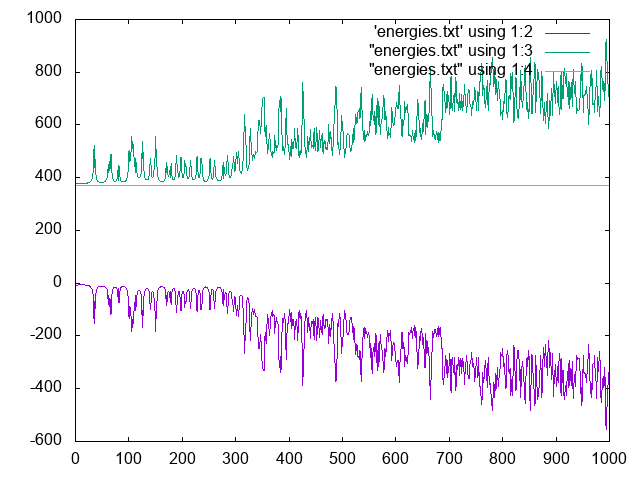
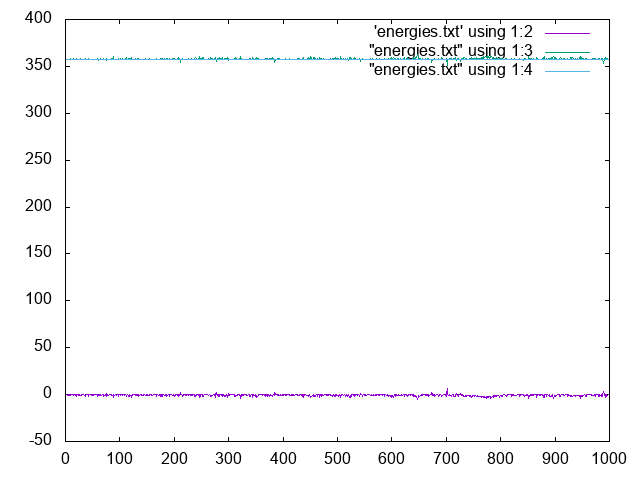
- Fixed Andersen thermostat

diff --git a/thermostats.h b/thermostats.h
@@ -12,18 +12,18 @@ namespace thermostats{
                     double ran_u2 = ran2::get_random();
                     double random_gauss =
                             sqrt(-2 * log(ran_u1)) * sin(2 * constants::PI * ran_u2);
-                    atoms[i]->vel[0] = random_gauss * sqrt(constants::K * 300 / atoms[i]->mass);
+                    atoms[i]->vel[0] = random_gauss * sqrt(constants::K_DALTON * 300 / atoms[i]->mass) * 0.001;
 
                     ran_u2 = ran2::get_random();
                     ran_u1 = ran2::get_random();
                     random_gauss =
                             sqrt(-2 * log(ran_u1)) * sin(2 * constants::PI * ran_u2);
-                    atoms[i]->vel[1] = random_gauss * sqrt(constants::K * 300 / atoms[i]->mass);
+                    atoms[i]->vel[1] = random_gauss * sqrt(constants::K_DALTON * 300 / atoms[i]->mass) * 0.001;
 
                     ran_u2 = ran2::get_random();
                     ran_u1 = ran2::get_random();
                     random_gauss = sqrt(-2 * log(ran_u1)) * sin(2 * constants::PI * ran_u2);
-                    atoms[i]->vel[2] = random_gauss * sqrt(constants::K * 300 / atoms[i]->mass);
+                    atoms[i]->vel[2] = random_gauss * sqrt(constants::K_DALTON * 300 / atoms[i]->mass) * 0.001;
                 }
             }
         }

diff --git a/atom.cpp b/atom.cpp
@@ -31,12 +31,13 @@ Atom** Atom::create_atoms() {
  */
 
 void Atom::initialize(Atom** atoms){
+    FILE *fi = fopen("velocities.txt", "w");
     for(int i = 0; i < base::numOfAtoms; i++) {
         atoms[i] = new Atom();
 
         //atoms[i]->mass = 0.000000000000000000000000001;
         //atoms[i]->mass = 1;
-        atoms[i]->mass = 28; //[dalton]
+        atoms[i]->mass = 28.0134; //[dalton]
         atoms[i]->radius = 0.1;
 
         atoms[i]->pos[0] = ran2::get_random() * base::boxDim;
@@ -59,7 +60,7 @@ void Atom::initialize(Atom** atoms){
         random_gauss = sqrt(-2 * log(ran_u1)) * sin(2 * constants::PI * ran_u2);
         atoms[i]->vel[2] = random_gauss * sqrt(constants::K_DALTON * 300 / atoms[i]->mass) * 0.001;
 
-        std::cout << atoms[i]->vel.norm() << std::endl;
+        fprintf(fi, "%d    %lf\n", i, atoms[i]->vel.norm());
         /* Set initial forces*/
         atoms[i]->oldForce[0] = 0;
         atoms[i]->oldForce[1] = 0;
@@ -69,6 +70,7 @@ void Atom::initialize(Atom** atoms){
         atoms[i]->force[1] = 0;
         atoms[i]->force[2] = 0;
     }
+    fclose(fi);
 }
 
 /*! Calculates the distance between two atoms:

diff --git a/mdEngine.h b/mdEngine.h
@@ -78,7 +78,7 @@ namespace mdEngine {
             integrator_1(atoms);    /* First half step of integrator */
             force_function(atoms);  /* Calculate new forces */
             integrator_2(atoms);    /* Second half step of integrator */
-            //thermostats::andersen::set_velocity(atoms); /* Apply thermostat */
+            thermostats::andersen::set_velocity(atoms); /* Apply thermostat */
             temperature = get_temperature(atoms);
             cummulativeTemp += temperature;
             base::temperatures[i] = temperature;

diff --git a/main.cpp b/main.cpp
@@ -8,14 +8,13 @@
 #include "atom.h"
 
 
-
 /*!< Simulation variables */
 double base::boxDim = 50;   //nm
 int base::numOfAtoms = 100;
 int base::iterations = 100000;
 int base::outFreq = 1000;
 double base::temperature = 300;
-double base::tStep = 0.001;
+double base::tStep = 0.002;
 
 Eigen::MatrixXd Atom::forceMatrix;
 

diff --git a/energy.h b/energy.h
@@ -17,7 +17,7 @@ namespace energy{
     */
     namespace LJ {
     namespace {
-        double epsilon = 100.5 / constants::NA;    //![kJ/mol] LJ parameter epsilon
+        double epsilon = 1.5 / constants::NA;    //![kJ/mol] LJ parameter epsilon
         double sigma = 1;      //! LJ parameter sigma
     }
 
